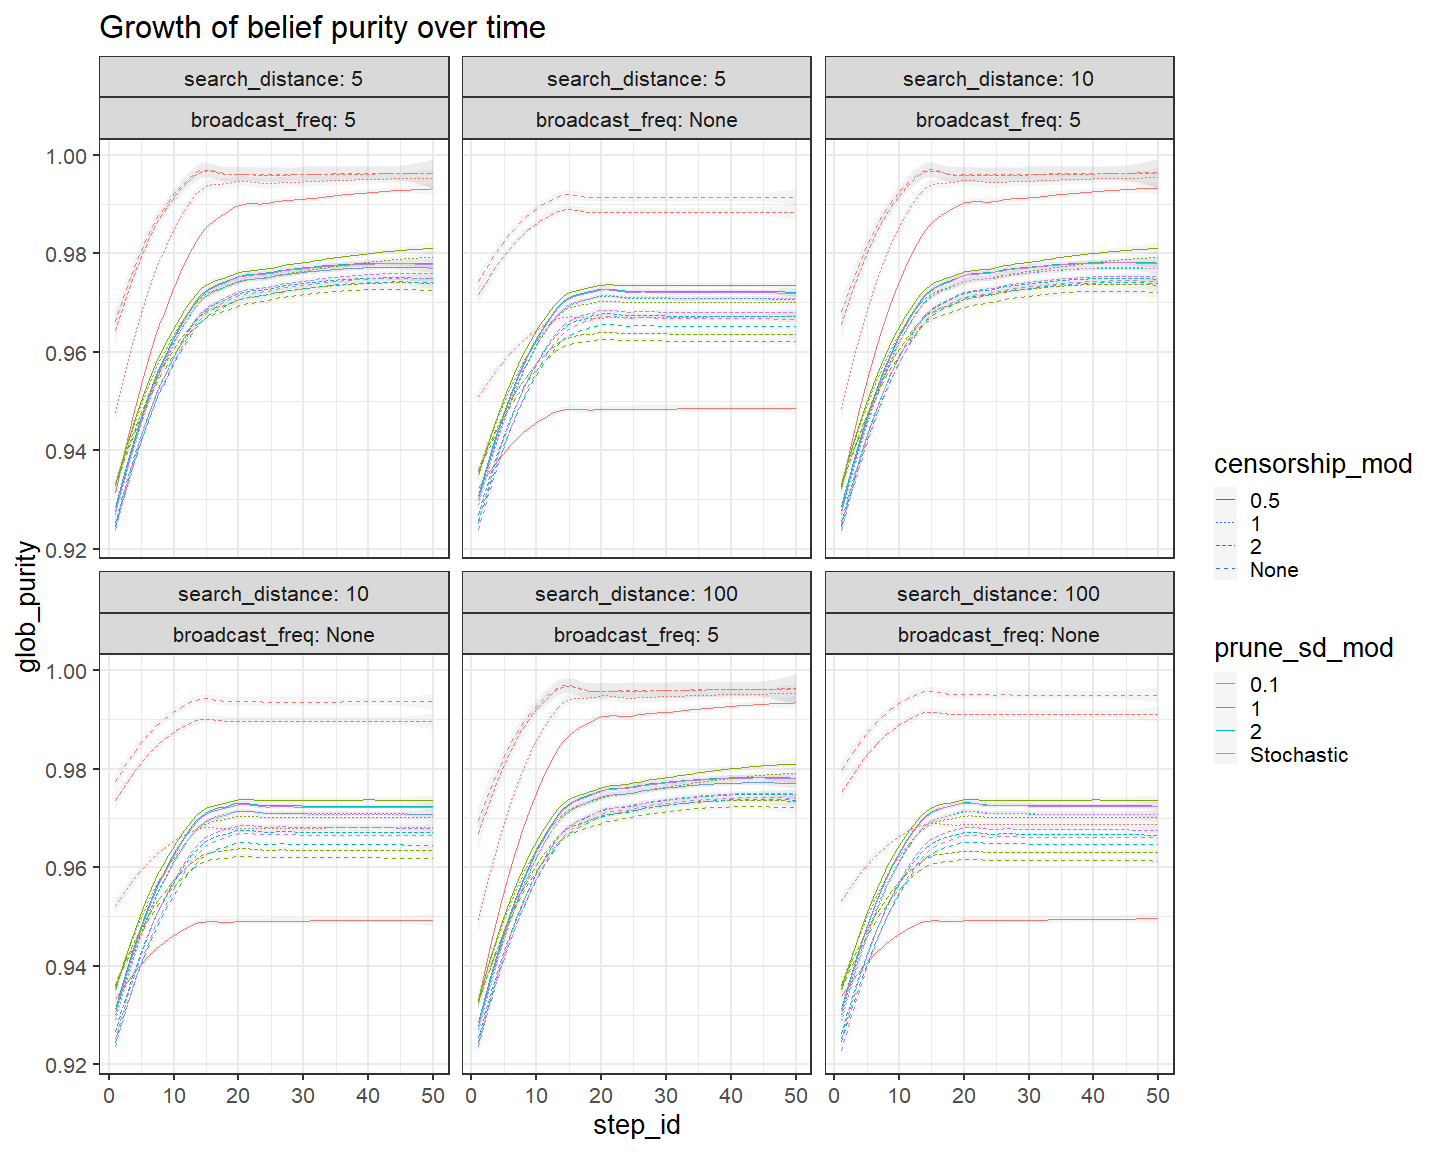
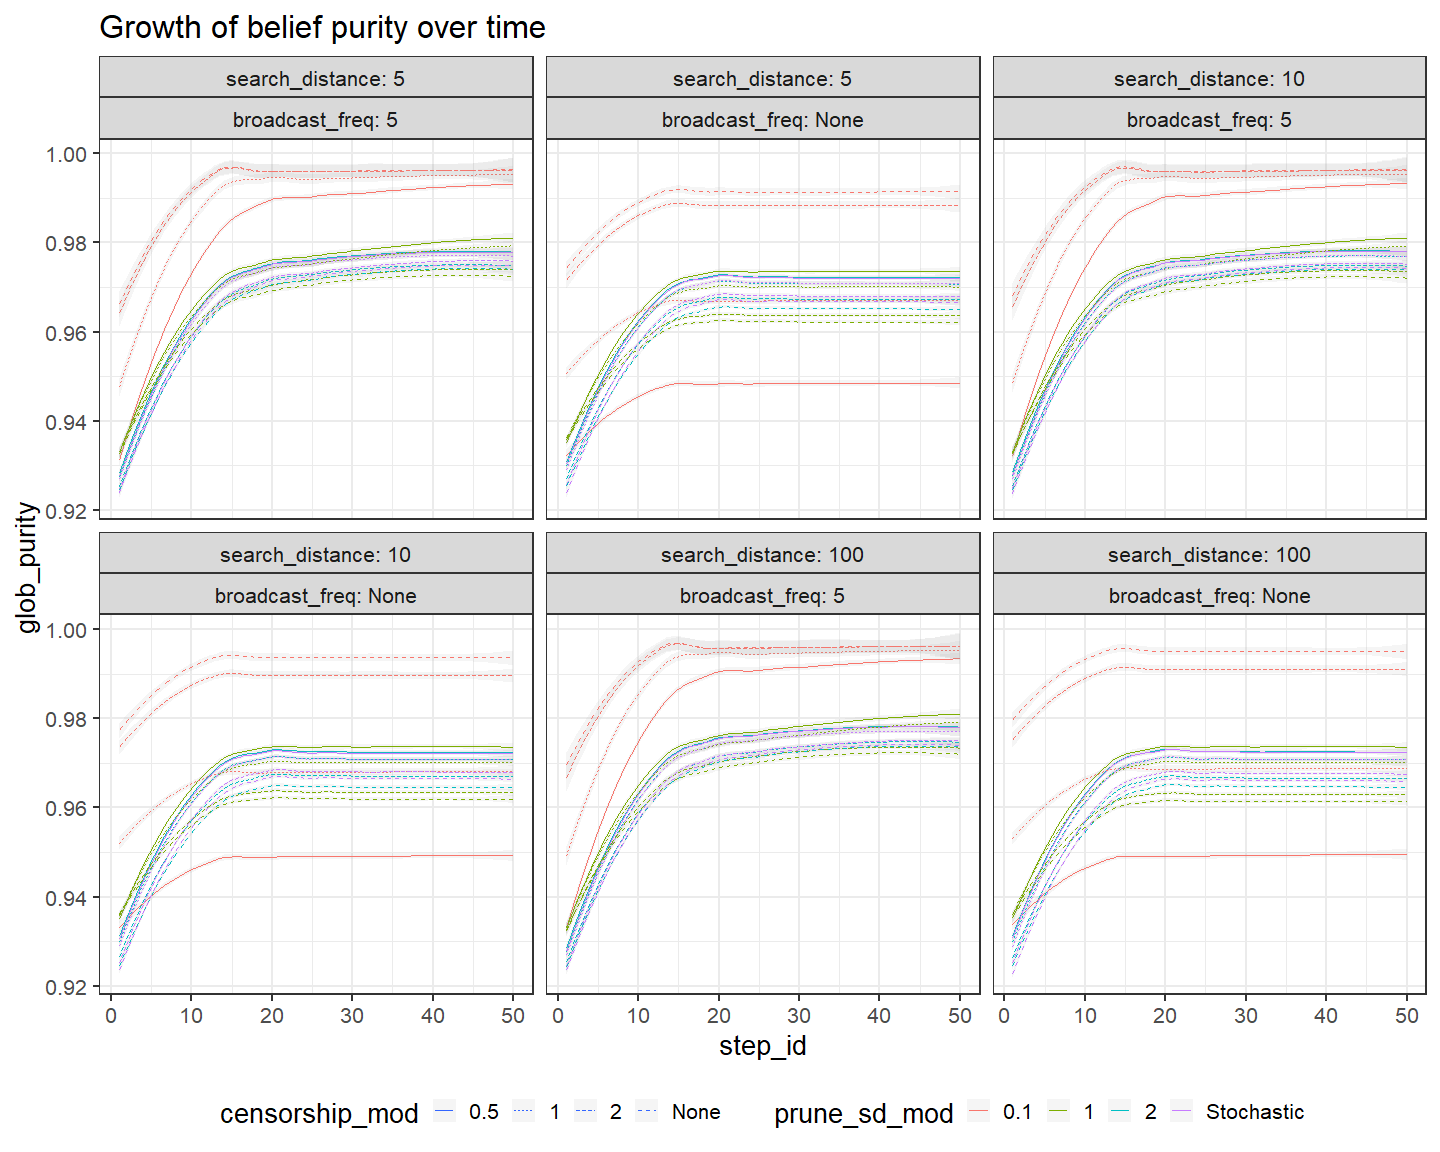
put legends in the bottom

diff --git a/echoPlots.md b/echoPlots.md
@@ -101,7 +101,7 @@ ABM_DataBasic <- ABM_Data %>%
 distributionDataBasic <- distributionData %>% 
   filter(numlearners == 1000,broadcast_freq == "None", censorship_mod == "None")
 
-theme_set(theme_bw(base_size = 20))
+theme_set(theme_bw(base_size = 20) + theme(legend.position = "bottom"))
 ```
 
 ``` r
